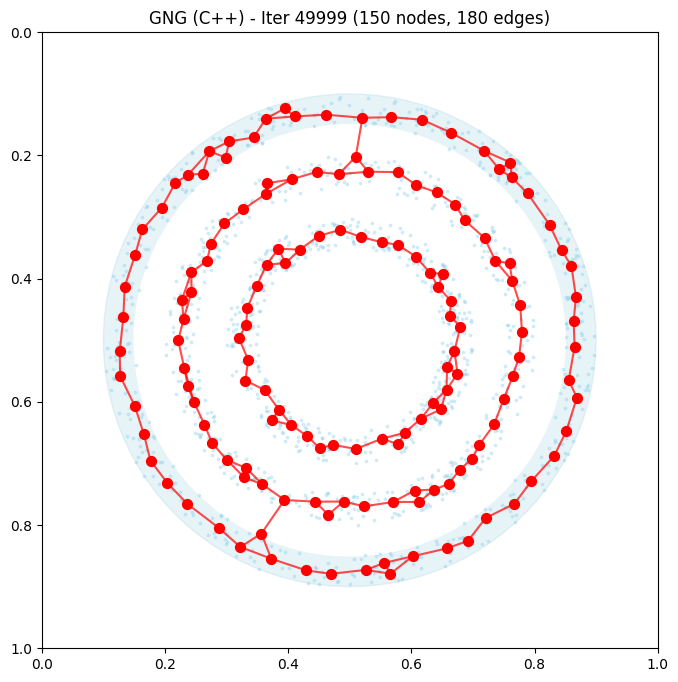
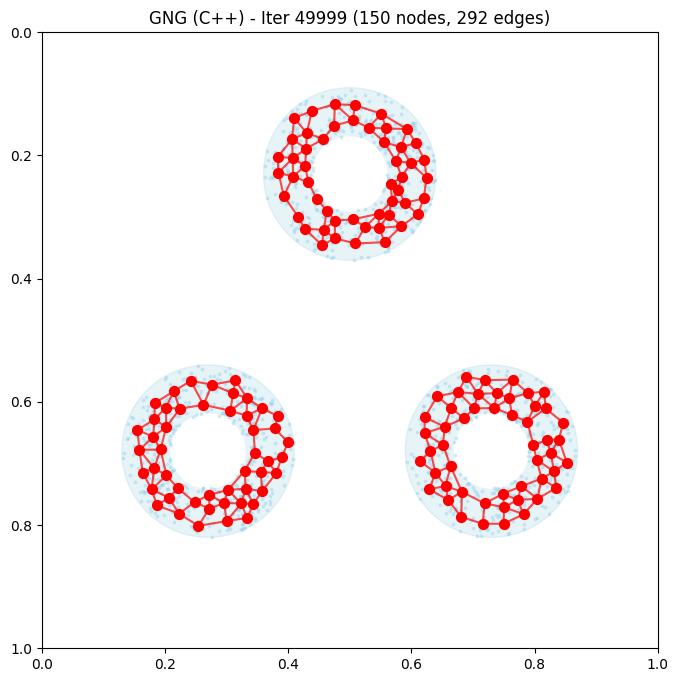
Fix C++ triple ring test to match Python implementation
The triple_ring.png image has 3 separate rings arranged in a triangle pattern,
not 3 concentric rings. Updated C++ tests to generate the correct pattern:
- Top center ring: (0.50, 0.23)
- Bottom left ring: (0.27, 0.68)
- Bottom right ring: (0.73, 0.68)

Updated files:
- test_gng_triple_ring.cpp
- test_gngt_triple_ring.cpp
- test_gng_timing.cpp
- visualize_triple_ring.py

Regenerated GIF samples with correct data distribution.

Updated README computation times:
- GNG C++ (50K): 2,289 ms, 150 nodes, 292 edges
- GNG-T C++ (50K): 21,804 ms, 150 nodes, 347 edges

Changed region(s): [[0.1549, 0.1232, 0.8982, 0.8622], [0.7434, 0.0, 0.7743, 0.0308], [0.6814, 0.0, 0.7124, 0.0308]]

diff --git a/experiments/2d_visualization/cpp/test_gng_triple_ring.cpp b/experiments/2d_visualization/cpp/test_gng_triple_ring.cpp
@@ -23,21 +23,22 @@
 namespace fs = std::filesystem;
 
 /**
- * @brief Sample points from triple ring (3 concentric rings).
+ * @brief Sample points from triple ring (3 separate rings in triangle pattern).
+ * Matches the triple_ring.png image layout.
  */
 std::vector<Eigen::Vector2f> sample_triple_ring(
     int n_samples,
-    float center_x, float center_y,
     unsigned int seed)
 {
     std::mt19937 rng(seed);
     std::uniform_real_distribution<float> angle_dist(0.0f, 2.0f * M_PI);
 
-    // Three rings with different radii (matching Python test)
-    std::vector<std::pair<float, float>> rings = {
-        {0.15f, 0.20f},  // inner ring
-        {0.25f, 0.30f},  // middle ring
-        {0.35f, 0.40f},  // outer ring
+    // Three separate rings arranged in triangle pattern (matching triple_ring.png)
+    // Each ring: {center_x, center_y, inner_radius, outer_radius}
+    std::vector<std::tuple<float, float, float, float>> rings = {
+        {0.50f, 0.23f, 0.06f, 0.14f},  // top center
+        {0.27f, 0.68f, 0.06f, 0.14f},  // bottom left
+        {0.73f, 0.68f, 0.06f, 0.14f},  // bottom right
     };
 
     std::vector<Eigen::Vector2f> samples;
@@ -45,13 +46,13 @@ std::vector<Eigen::Vector2f> sample_triple_ring(
 
     int samples_per_ring = n_samples / 3;
 
-    for (const auto& [r_inner, r_outer] : rings) {
+    for (const auto& [cx, cy, r_inner, r_outer] : rings) {
         std::uniform_real_distribution<float> radius_dist(r_inner, r_outer);
         for (int i = 0; i < samples_per_ring; ++i) {
             float angle = angle_dist(rng);
             float radius = radius_dist(rng);
-            float x = center_x + radius * std::cos(angle);
-            float y = center_y + radius * std::sin(angle);
+            float x = cx + radius * std::cos(angle);
+            float y = cy + radius * std::sin(angle);
             samples.emplace_back(x, y);
         }
     }
@@ -115,7 +116,7 @@ int main(int argc, char* argv[]) {
 
     // Generate triple ring samples
     std::cout << "Generating samples...\n";
-    auto samples = sample_triple_ring(n_samples, 0.5f, 0.5f, seed);
+    auto samples = sample_triple_ring(n_samples, seed);
     save_samples(samples, output_dir + "/samples.csv");
     std::cout << "Generated " << samples.size() << " samples\n\n";
 

diff --git a/experiments/2d_visualization/cpp/test_gngt_triple_ring.cpp b/experiments/2d_visualization/cpp/test_gngt_triple_ring.cpp
@@ -24,20 +24,22 @@
 namespace fs = std::filesystem;
 
 /**
- * @brief Sample points from triple ring (3 concentric rings).
+ * @brief Sample points from triple ring (3 separate rings in triangle pattern).
+ * Matches the triple_ring.png image layout.
  */
 std::vector<Eigen::Vector2f> sample_triple_ring(
     int n_samples,
-    float center_x, float center_y,
     unsigned int seed)
 {
     std::mt19937 rng(seed);
     std::uniform_real_distribution<float> angle_dist(0.0f, 2.0f * M_PI);
 
-    std::vector<std::pair<float, float>> rings = {
-        {0.15f, 0.20f},
-        {0.25f, 0.30f},
-        {0.35f, 0.40f},
+    // Three separate rings arranged in triangle pattern (matching triple_ring.png)
+    // Each ring: {center_x, center_y, inner_radius, outer_radius}
+    std::vector<std::tuple<float, float, float, float>> rings = {
+        {0.50f, 0.23f, 0.06f, 0.14f},  // top center
+        {0.27f, 0.68f, 0.06f, 0.14f},  // bottom left
+        {0.73f, 0.68f, 0.06f, 0.14f},  // bottom right
     };
 
     std::vector<Eigen::Vector2f> samples;
@@ -45,13 +47,13 @@ std::vector<Eigen::Vector2f> sample_triple_ring(
 
     int samples_per_ring = n_samples / 3;
 
-    for (const auto& [r_inner, r_outer] : rings) {
+    for (const auto& [cx, cy, r_inner, r_outer] : rings) {
         std::uniform_real_distribution<float> radius_dist(r_inner, r_outer);
         for (int i = 0; i < samples_per_ring; ++i) {
             float angle = angle_dist(rng);
             float radius = radius_dist(rng);
-            float x = center_x + radius * std::cos(angle);
-            float y = center_y + radius * std::sin(angle);
+            float x = cx + radius * std::cos(angle);
+            float y = cy + radius * std::sin(angle);
             samples.emplace_back(x, y);
         }
     }
@@ -126,7 +128,7 @@ int main(int argc, char* argv[]) {
 
     // Generate triple ring samples
     std::cout << "Generating samples...\n";
-    auto samples = sample_triple_ring(n_samples, 0.5f, 0.5f, seed);
+    auto samples = sample_triple_ring(n_samples, seed);
     save_samples(samples, output_dir + "/samples.csv");
     std::cout << "Generated " << samples.size() << " samples\n\n";
 

diff --git a/experiments/2d_visualization/cpp/test_gng_timing.cpp b/experiments/2d_visualization/cpp/test_gng_timing.cpp
@@ -13,7 +13,8 @@
 #include "gng.hpp"
 
 /**
- * @brief Sample points from triple ring (3 concentric rings).
+ * @brief Sample points from triple ring (3 separate rings in triangle pattern).
+ * Matches the triple_ring.png image layout.
  */
 std::vector<Eigen::Vector2f> sample_triple_ring(
     int n_samples,
@@ -22,11 +23,12 @@ std::vector<Eigen::Vector2f> sample_triple_ring(
     std::mt19937 rng(seed);
     std::uniform_real_distribution<float> angle_dist(0.0f, 2.0f * M_PI);
 
-    // Three rings with different radii
-    std::vector<std::pair<float, float>> rings = {
-        {0.15f, 0.20f},  // inner ring
-        {0.25f, 0.30f},  // middle ring
-        {0.35f, 0.40f},  // outer ring
+    // Three separate rings arranged in triangle pattern (matching triple_ring.png)
+    // Each ring: {center_x, center_y, inner_radius, outer_radius}
+    std::vector<std::tuple<float, float, float, float>> rings = {
+        {0.50f, 0.23f, 0.06f, 0.14f},  // top center
+        {0.27f, 0.68f, 0.06f, 0.14f},  // bottom left
+        {0.73f, 0.68f, 0.06f, 0.14f},  // bottom right
     };
 
     std::vector<Eigen::Vector2f> samples;
@@ -34,13 +36,13 @@ std::vector<Eigen::Vector2f> sample_triple_ring(
 
     int samples_per_ring = n_samples / 3;
 
-    for (const auto& [r_inner, r_outer] : rings) {
+    for (const auto& [cx, cy, r_inner, r_outer] : rings) {
         std::uniform_real_distribution<float> radius_dist(r_inner, r_outer);
         for (int i = 0; i < samples_per_ring; ++i) {
             float angle = angle_dist(rng);
             float radius = radius_dist(rng);
-            float x = 0.5f + radius * std::cos(angle);
-            float y = 0.5f + radius * std::sin(angle);
+            float x = cx + radius * std::cos(angle);
+            float y = cy + radius * std::sin(angle);
             samples.emplace_back(x, y);
         }
     }

diff --git a/experiments/2d_visualization/cpp/visualize_triple_ring.py b/experiments/2d_visualization/cpp/visualize_triple_ring.py
@@ -62,18 +62,19 @@ def create_frame(
     """Create a single frame for triple ring visualization."""
     ax.clear()
 
-    # Draw triple ring background
+    # Draw triple ring background (3 separate rings in triangle pattern)
     theta = np.linspace(0, 2 * np.pi, 100)
+    # Each ring: (center_x, center_y, inner_radius, outer_radius)
     rings = [
-        (0.15, 0.20),  # inner ring
-        (0.25, 0.30),  # middle ring
-        (0.35, 0.40),  # outer ring
+        (0.50, 0.23, 0.06, 0.14),  # top center
+        (0.27, 0.68, 0.06, 0.14),  # bottom left
+        (0.73, 0.68, 0.06, 0.14),  # bottom right
     ]
-    for r_inner, r_outer in rings:
-        outer_x = 0.5 + r_outer * np.cos(theta)
-        outer_y = 0.5 + r_outer * np.sin(theta)
-        inner_x = 0.5 + r_inner * np.cos(theta)
-        inner_y = 0.5 + r_inner * np.sin(theta)
+    for cx, cy, r_inner, r_outer in rings:
+        outer_x = cx + r_outer * np.cos(theta)
+        outer_y = cy + r_outer * np.sin(theta)
+        inner_x = cx + r_inner * np.cos(theta)
+        inner_y = cy + r_inner * np.sin(theta)
         ax.fill(outer_x, outer_y, color="lightblue", alpha=0.3)
         ax.fill(inner_x, inner_y, color="white")
 

diff --git a/README.md b/README.md
@@ -177,8 +177,8 @@ gng_collection/
 
 | アルゴリズム | 計算時間 [ms] | ノード数 | エッジ数 |
 |-------------|-------------:|--------:|--------:|
-| GNG         | 2,247        | 150     | 180     |
-| GNG-T       | 48,720       | 150     | 368     |
+| GNG         | 2,289        | 150     | 292     |
+| GNG-T       | 21,804       | 150     | 347     |
 
 C++実装はPythonの約20〜50倍高速。論文（Kubota & Satomi 2008）の実験条件（50,000イテレーション）でも実用的な速度で動作。
 
